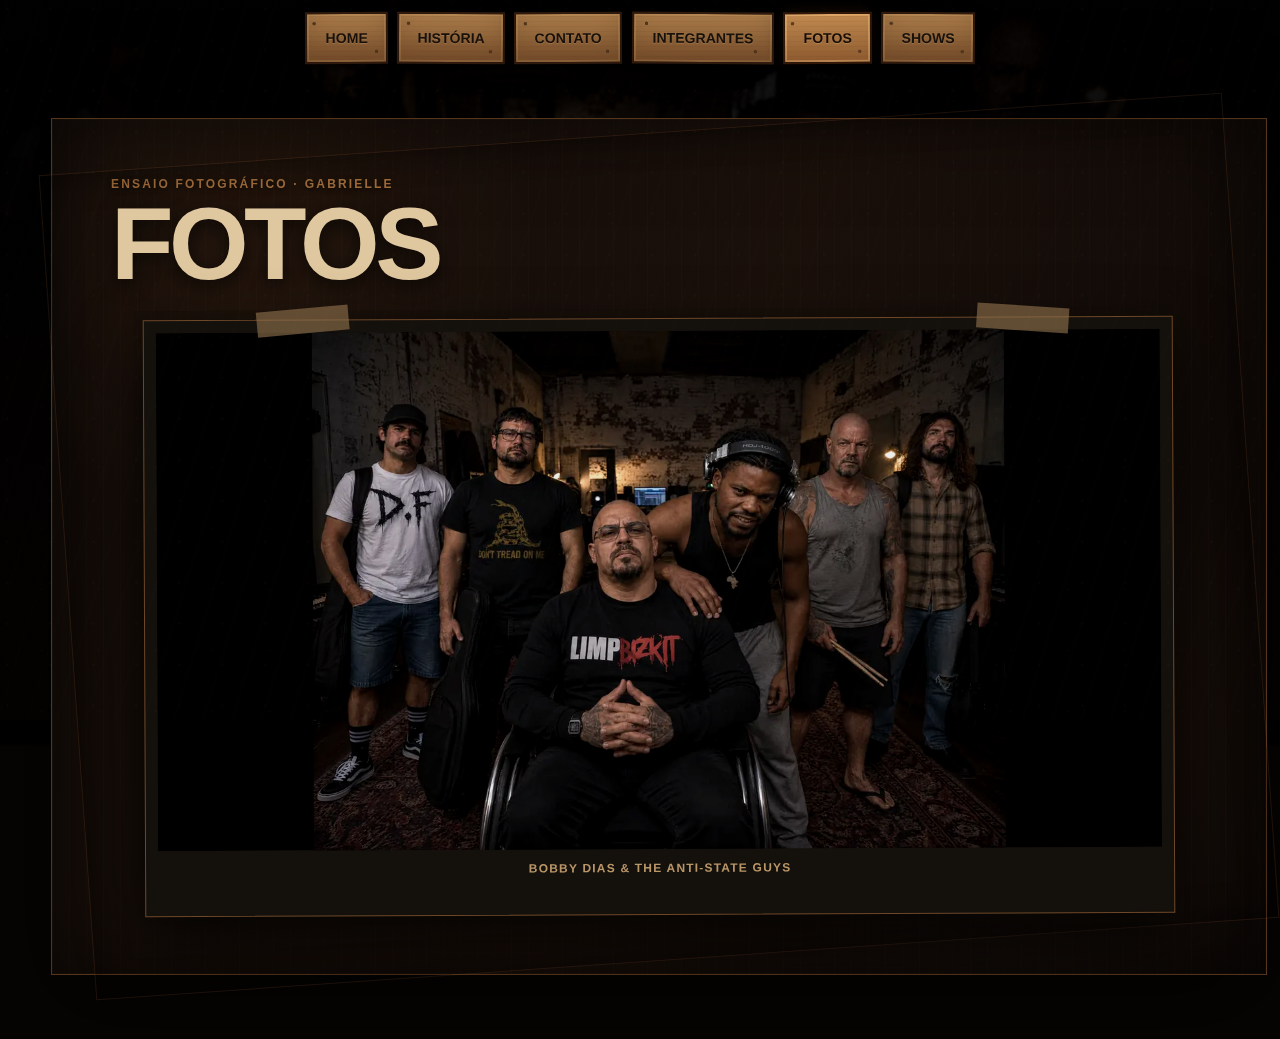
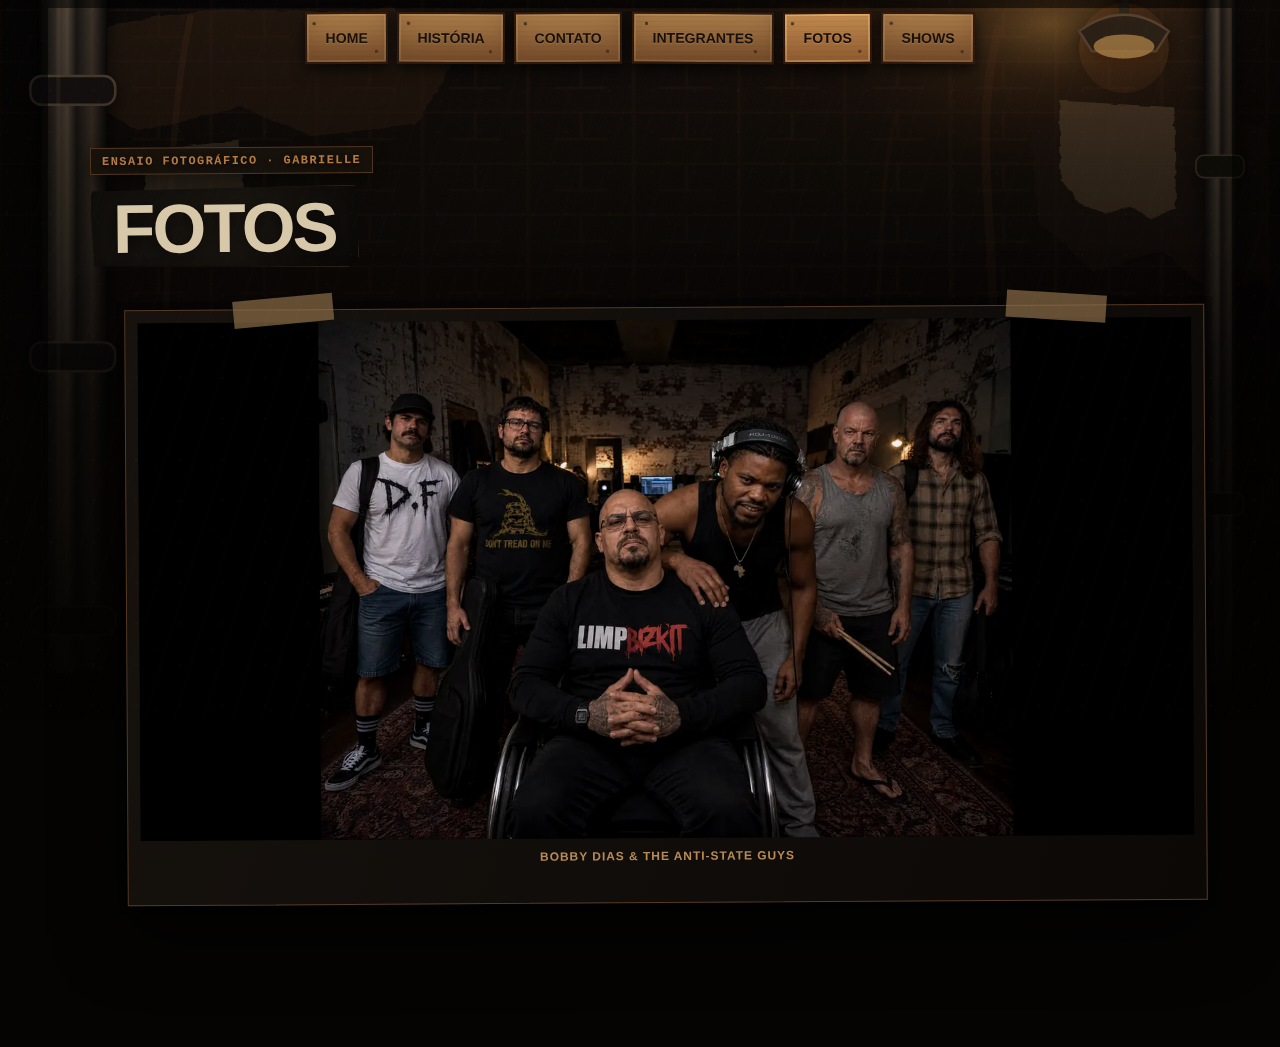
test: persist scenic v2 visual QA preview

diff --git a/QA-VERIFY.md b/QA-VERIFY.md
@@ -3,6 +3,6 @@
 - Result: PASS
 - Browser: Chromium / Playwright 1.55.0
 - Tested: desktop 1672x941, desktop 1440x900, mobile 390x844, all internal routes, image decoding, music catalog and persistent audio element.
-- Source commit: 565758f750b74f05f8b9402179a91a6b7cd30bc4
+- Source commit: 5d2920f226b79e7a3c860966044108fa872edaa2
 
 Temporary screenshots are stored in `.qa-preview/` for design review and must be removed before production merge.
